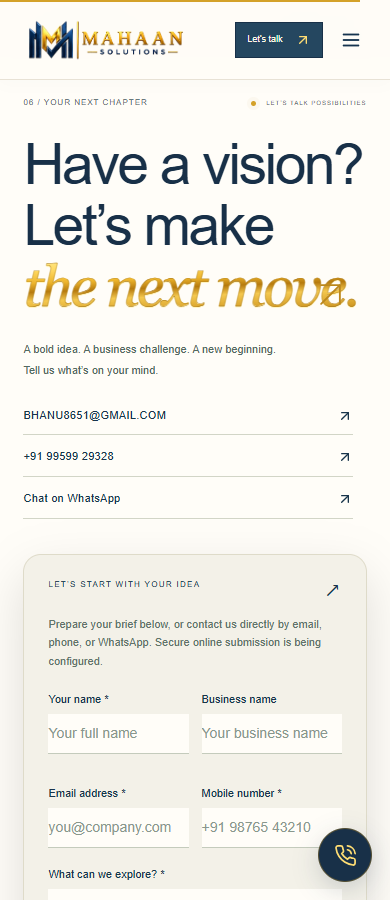
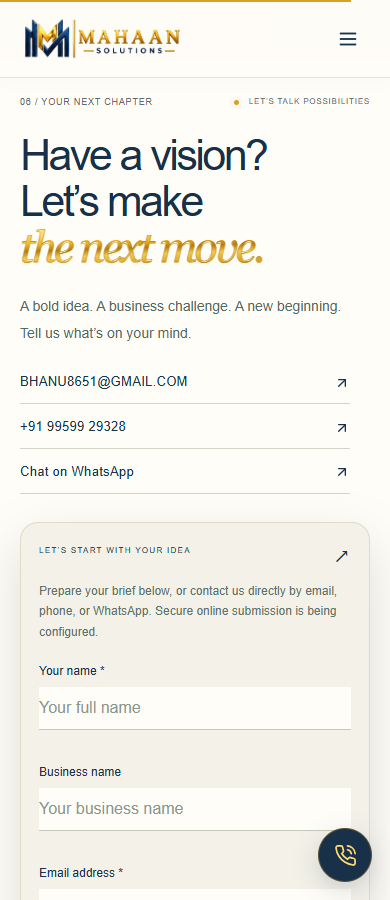
Fix responsive layout across phones tablets and desktop screens

diff --git a/src/styles/responsive-layout.css b/src/styles/responsive-layout.css
@@ -1,0 +1,8 @@
+/* Width-led responsive layout; no portrait shrinking based on viewport height. */
+:root{--page-gutter:clamp(20px,5vw,80px);--page-max:1280px;--nav-height:88px}.navigation{height:88px;padding-inline:var(--page-gutter)}.brand-logo{width:205px;height:70px}.nav-links{font-size:13px;gap:28px}.nav-cta{font-size:12px;min-height:44px}.editorial-hero{display:grid;grid-template-columns:minmax(0,1.1fr) minmax(0,.9fr);column-gap:clamp(32px,5vw,80px);row-gap:24px;align-items:center;justify-content:normal;padding:clamp(30px,4vw,56px) max(var(--page-gutter),calc((100% - var(--page-max))/2)) 30px;min-height:0;height:auto;max-height:none;overflow:visible}.home-hero-copy{width:100%;max-width:none;min-width:0}.editorial-hero h1{font-size:clamp(44px,5.3vw,82px);line-height:1.04;letter-spacing:-.045em;margin:24px 0}.home-hero .eyebrow{font-size:11px;letter-spacing:1.35px;line-height:1.6;overflow-wrap:anywhere}.home-hero-statement{font-size:clamp(17px,1.6vw,22px);line-height:1.5;max-width:100%}.home-hero-description{font-size:15px;line-height:1.75;max-width:520px;margin:20px 0 24px}.home-hero-actions{gap:20px}.home-hero-actions .button{font-size:13px;min-height:48px;padding:14px 20px;gap:22px}.home-secondary-cta{font-size:13px;min-height:44px}.hero-founder-control{margin-top:24px}.hero-founder-control .narration-button{font-size:12px;padding:12px 14px}.hero-founder-control>span{font-size:10px;line-height:1.6}.founder-editorial{width:100%;max-width:480px;min-width:0;justify-self:end;align-self:center}.studio-gallery{width:100%;height:auto;aspect-ratio:4/5;max-height:none}.studio-gallery>img{width:100%;height:100%;object-fit:contain}.portrait-heading{font-size:9px;line-height:1.5;letter-spacing:.8px;gap:12px}.portrait-credit strong{font-size:clamp(18px,1.7vw,24px);overflow-wrap:anywhere}.portrait-credit small{font-size:10px}.portrait-credit>span{font-size:8px;display:block}.editorial-hero .home-hero-baseline{position:relative;inset:auto;grid-column:1/-1;height:auto;font-size:9px;line-height:1.6;padding-top:18px;gap:20px;flex-wrap:wrap}.section-pad,.faq-section{padding:64px max(var(--page-gutter),calc((100% - var(--page-max))/2));--section-inset:64px}.section-label{font-size:10px;line-height:1.6;gap:20px}.section-heading p,.company-description,.principle-grid p,.faq-item p{font-size:14px;line-height:1.8}.section-note{font-size:11px;line-height:1.7}.business-service-card .service-main>p,.business-problem>p{font-size:14px;line-height:1.8}.business-service-card h3{font-size:clamp(26px,2.5vw,38px);overflow-wrap:anywhere}.business-service-card .service-deliverables li{font-size:12px;line-height:1.6}.business-service-card .service-card-bottom{flex-wrap:wrap;gap:14px}.business-service-card .service-card-bottom>a:first-child,.business-service-card .chapter-cta{font-size:12px}.service-card-top>span{font-size:10px}.journey-detail p,.solution-console-caption p{font-size:14px}.journey-title small,.journey-detail>span,.solution-console-caption>span{font-size:9px}.solution-index>button>strong{font-size:11px}.faq-item button{font-size:16px}.direct-contact>a{font-size:14px;overflow-wrap:anywhere}.form-field input,.form-field select,.form-field textarea{font-size:16px;min-width:0;width:100%}.form-field>span{font-size:12px}.form-grid{min-width:0}.form-mode{font-size:12px}.form-fine,.consent{font-size:11px}footer{padding-inline:max(var(--page-gutter),calc((100% - var(--page-max))/2))}.footer-bottom{gap:18px;flex-wrap:wrap}.footer-top{gap:20px;flex-wrap:wrap}.detail-main,.legal{overflow-wrap:anywhere}.contact-layout,.company-intro-grid,.principles-heading,.services-story-layout{min-width:0}.contact-layout>*,.company-intro-grid>*,.services-story-layout>*{min-width:0}
+@media(min-width:1600px){.editorial-hero h1{font-size:82px}.navigation{padding-inline:max(var(--page-gutter),calc((100% - 1400px)/2))}}
+@media(max-width:1100px){.editorial-hero{column-gap:32px}.editorial-hero h1{font-size:clamp(42px,5.4vw,62px)}.section-pad,.faq-section{padding-top:56px;padding-bottom:56px;--section-inset:56px}.service-deliverables{grid-template-columns:1fr}.company-finale h2{font-size:clamp(48px,6vw,72px)}}
+@media(max-width:1024px){.navigation{gap:16px}.brand-logo{width:185px}.menu-toggle{display:grid;place-items:center;flex-shrink:0;width:44px;height:44px;border:0;background:transparent}.navigation .nav-links{display:none;position:absolute;top:100%;left:0;right:0;flex-direction:column;gap:12px;padding:20px var(--page-gutter);background:#fffdf8;border-bottom:1px solid #e0d6bf;box-shadow:0 16px 30px #1830480a;max-height:calc(100dvh - var(--nav-height));overflow:auto;font-size:17px}.navigation .nav-links.is-open{display:flex}.navigation .nav-links a{padding:8px 0;min-height:44px}.navigation .mobile-talk{display:flex;gap:14px;align-items:center}.nav-cta{margin-left:auto}.services-story-layout{display:block}.services-story-layout .solution-console{position:relative;top:auto;max-width:none;margin-bottom:24px}.journey-explorer{display:grid;grid-template-columns:1fr 1fr;gap:12px 24px}.journey-title,.journey-route,.journey-detail,.journey-next{grid-column:1}.journey-canvas{grid-column:2;grid-row:1/5;align-self:center}.journey-detail{min-height:0}.solution-console-caption{padding:20px 24px}.solution-index{display:flex}.solution-index>button{flex:1;padding:14px}.service-grid.service-story-cards{grid-template-columns:1fr;gap:22px}.company-intro-grid{grid-template-columns:1fr 1fr;gap:32px}.company-promise{padding-inline:0}.company-promise strong{font-size:64px}.principles-heading{display:block}.company-identity-block{margin-top:24px}.principle-grid{gap:24px}.contact-layout{grid-template-columns:1fr 1fr;gap:30px}.contact h2{font-size:clamp(44px,5.8vw,64px)}.enquiry-form{padding:24px}.finale-orb{width:220px;height:220px;left:6%}.finale-orb svg{width:75px}.company-finale-copy{margin-left:42%}}
+@media(max-width:760px){:root{--page-gutter:20px;--nav-height:78px}.navigation{height:78px;padding-inline:20px;gap:12px}.brand-logo{width:170px;height:60px}.editorial-hero{display:flex;flex-direction:column;padding:28px 20px 24px;gap:28px}.editorial-hero h1{font-size:clamp(40px,11.5vw,62px);line-height:1.06;letter-spacing:-.045em;margin:18px 0}.home-hero .eyebrow{font-size:10px;letter-spacing:.9px}.home-hero-statement{font-size:18px;line-height:1.5}.home-hero-description{font-size:15px;margin:16px 0 22px}.home-hero-actions{gap:14px;flex-wrap:wrap}.home-hero-actions .button{font-size:13px;gap:16px}.hero-founder-control{margin-top:20px}.hero-founder-control>span{font-size:10px}.founder-editorial{width:100%;max-width:440px;align-self:center;justify-self:center}.portrait-heading{font-size:8px}.portrait-credit strong{font-size:21px}.portrait-credit>span{display:none}.portrait-credit small{font-size:9px}.editorial-hero .home-hero-baseline{width:100%;padding-top:16px;font-size:9px}.editorial-hero .home-hero-baseline>span{display:none}.section-pad,.faq-section{padding:42px 20px;--section-inset:42px}.section-label{font-size:9px;letter-spacing:.8px;margin-bottom:24px}.section-label>span:last-child{font-size:8px}.section-heading h2,.company-intro h2,.principles-heading h2,.faq-section h2{font-size:clamp(34px,9vw,44px);letter-spacing:-1.5px}.section-heading p{font-size:14px}.company-intro-grid{grid-template-columns:1fr;gap:24px}.company-promise strong{font-size:56px}.company-facts strong{font-size:14px}.company-facts span{font-size:9px}.journey-explorer{display:block;padding:22px 18px}.journey-canvas{height:175px}.journey-title h4{font-size:25px}.journey-route button{font-size:11px}.journey-artifact{font-size:12px;max-width:100%;text-align:center}.journey-detail{min-height:105px}.journey-next{font-size:13px;min-height:44px}.solution-console-heading>span{font-size:9px;letter-spacing:1px}.solution-console-heading button{min-height:32px;min-width:32px}.solution-console-caption{padding:20px 18px}.solution-console-caption h3{font-size:24px}.solution-console-caption p{display:block;font-size:14px}.solution-index>button{min-height:44px;padding:10px 6px}.solution-index>button>strong{font-size:11px}.business-service-card{padding:24px 20px}.business-service-card h3{font-size:28px;line-height:1.2}.business-service-card .service-deliverables li{font-size:12px}.service-card-top>span{font-size:9px}.project-info h3{font-size:20px}.project-info>div>span{font-size:10px}.process-tabs strong{font-size:15px}.process-tabs button>span{font-size:11px}.process-panel h3{font-size:25px}.process-panel p{font-size:14px}.principle-grid{grid-template-columns:1fr}.principle-grid h3{font-size:25px}.principle-grid p{font-size:14px}.faq-item button{font-size:16px;gap:15px}.faq-item p{font-size:14px}.contact-layout{grid-template-columns:1fr;gap:28px}.contact h2{font-size:clamp(40px,11vw,58px)}.contact-arrow{display:none}.contact-copy>p{font-size:14px}.direct-contact>a{font-size:13px}.enquiry-form{padding:22px 18px}.form-grid{grid-template-columns:1fr;gap:0}.form-field input,.form-field select,.form-field textarea{font-size:16px}.form-field{margin-bottom:20px}.company-finale{padding:42px 20px 0}.finale-orb{position:relative;left:auto;top:auto;width:160px;height:160px;margin:0 auto 50px}.finale-orb svg{width:60px;height:60px}.company-finale-copy{margin-left:0}.company-finale h2{font-size:clamp(39px,10vw,58px)}.company-finale-copy>p{font-size:14px}.company-finale-actions{gap:20px}.company-finale-actions>a:last-child{font-size:14px}.company-finale-label{font-size:9px;margin-top:36px;gap:16px}footer{padding:32px 20px 90px}.footer-bottom{font-size:10px}.footer-top p{font-size:20px}.voice-tour-dock{right:84px;left:12px;max-width:none;gap:8px}.voice-tour-dock strong{font-size:10px}.voice-tour-dock small{font-size:8px}.voice-tour-dock button{min-width:28px}}
+@media(max-width:420px){.nav-cta{display:none}.brand-logo{width:165px}.navigation{justify-content:space-between}.home-hero-actions{align-items:stretch;gap:10px 18px}.home-secondary-cta{font-size:13px}.home-hero-actions .button{gap:14px;padding-inline:16px}.portrait-credit strong{font-size:19px}.narration-button{gap:7px}.voice-language{margin-left:4px;padding-left:7px}.company-finale h2{font-size:clamp(35px,10vw,43px)}}
+@media(max-width:1024px){.company-promise strong{font-size:clamp(40px,5.5vw,56px)}}@media(max-width:760px){.company-promise strong{font-size:clamp(36px,10vw,56px);letter-spacing:-1px}}

diff --git a/src/app/layout.tsx b/src/app/layout.tsx
@@ -7,6 +7,7 @@ import '@/styles/brand-palette.css';
 import '@/styles/navigation-polish.css';
 import '@/styles/portrait-layout.css';
 import '@/styles/compact-spacing.css';
+import '@/styles/responsive-layout.css';
 export const metadata: Metadata = {
   metadataBase: new URL(process.env.NEXT_PUBLIC_SITE_URL || 'http://localhost:3000'),
   title:{default:'Mahaan Solutions — Your Vision. Our Solutions.', template:'%s | Mahaan Solutions'},

diff --git a/docs/RESPONSIVE-UPDATE.md b/docs/RESPONSIVE-UPDATE.md
@@ -1,0 +1,11 @@
+# Responsive layout verification — 20 October 2026
+
+The hero uses screen width to size its two columns and portrait. Short laptop screens scroll naturally instead of shrinking the entire composition. The complete 4:5 portrait uses object-fit: contain and has a full-image dialog.
+
+Navigation changes to a menu at 1024px. Phone layouts stack the hero, service explorer and contact fields. Form input text is at least 16px. Headings and card links wrap without horizontal overflow. Wide desktop content is capped at 1280px for readability.
+
+Verified production static output at 320, 360, 390, 430, 768, 820, 1024, 1280, 1366, 1440, 1920 and 2560px widths. All passed: no horizontal overflow, uncropped portrait within its section, navigation, service journey, scroll-triggered phone link, form sizing and portrait dialog. Navigation anchors leave approximately 20px below the sticky header on desktop/tablet and 16px on phones.
+
+Validation: full Next.js production build including API routes; static preview build; 12 unit tests; scripts/responsive-qa.cjs; scripts/navigation-qa.cjs; scripts/portrait-layout-qa.cjs. Browser checks use Edge/Chromium emulation rather than physical devices.
+
+Public website and poster QR destination: https://mahaansolutions.vercel.app. Set NEXT_PUBLIC_SITE_URL to this origin in Vercel for canonical metadata and sitemap generation.
